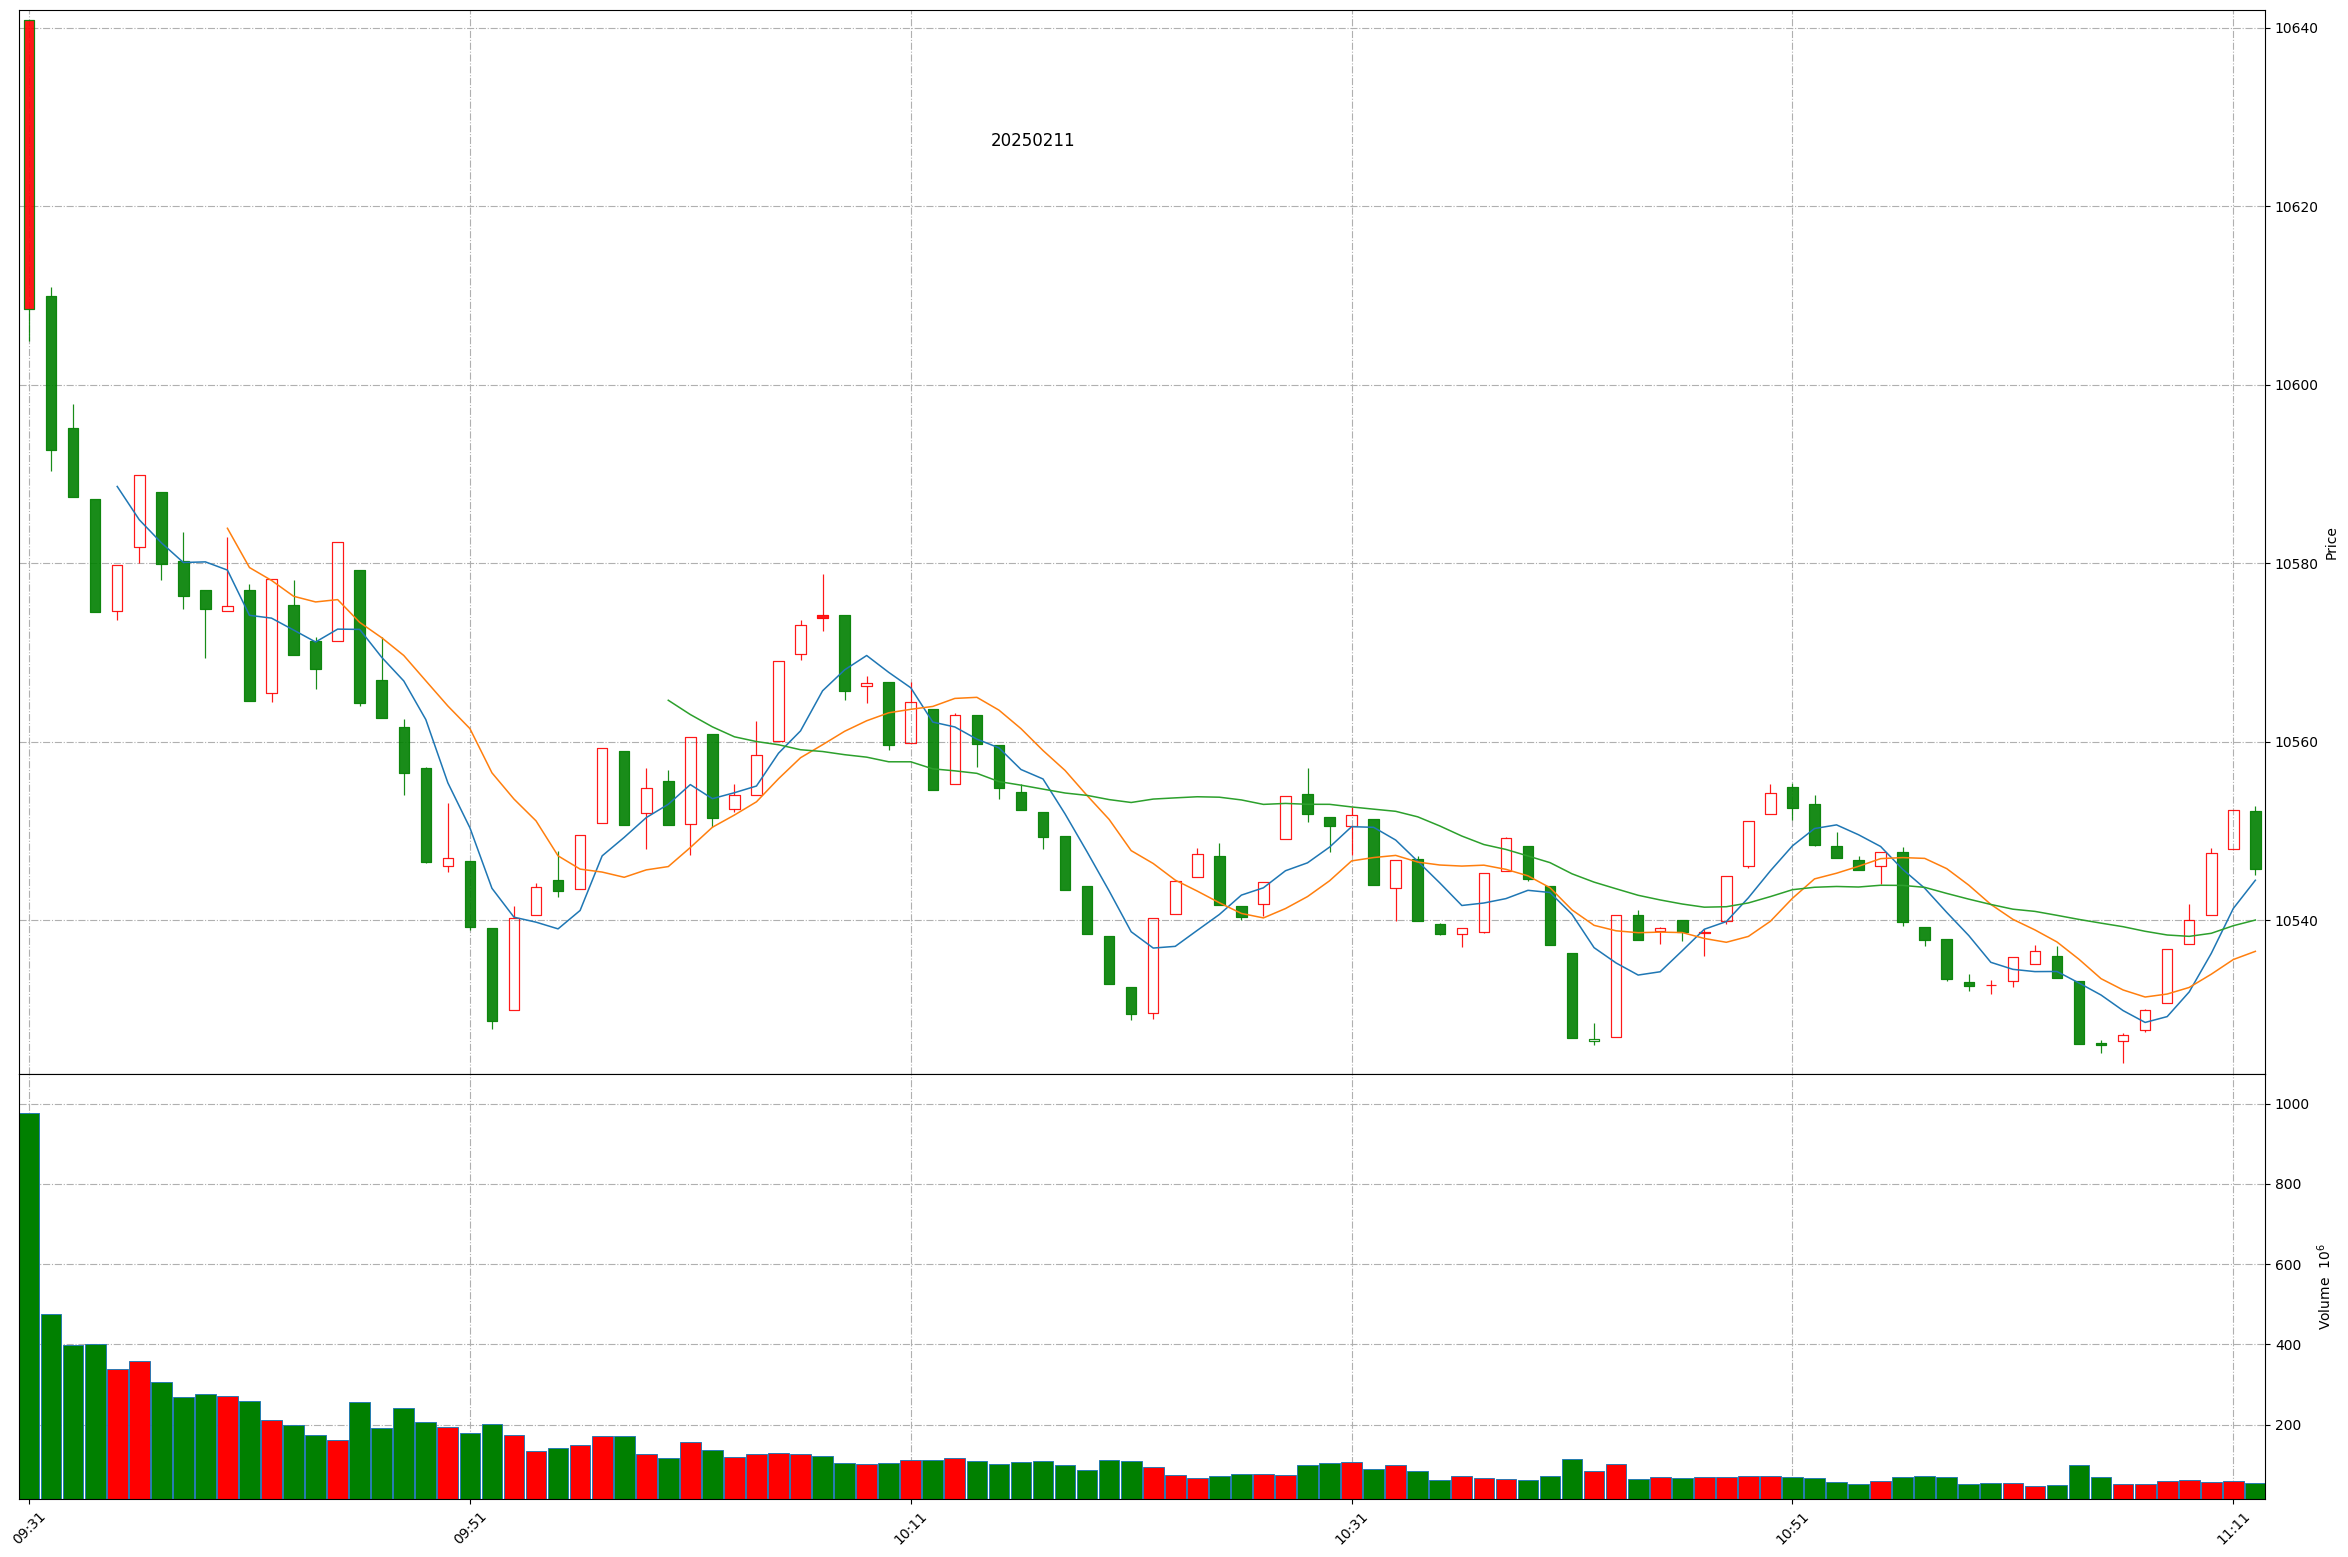
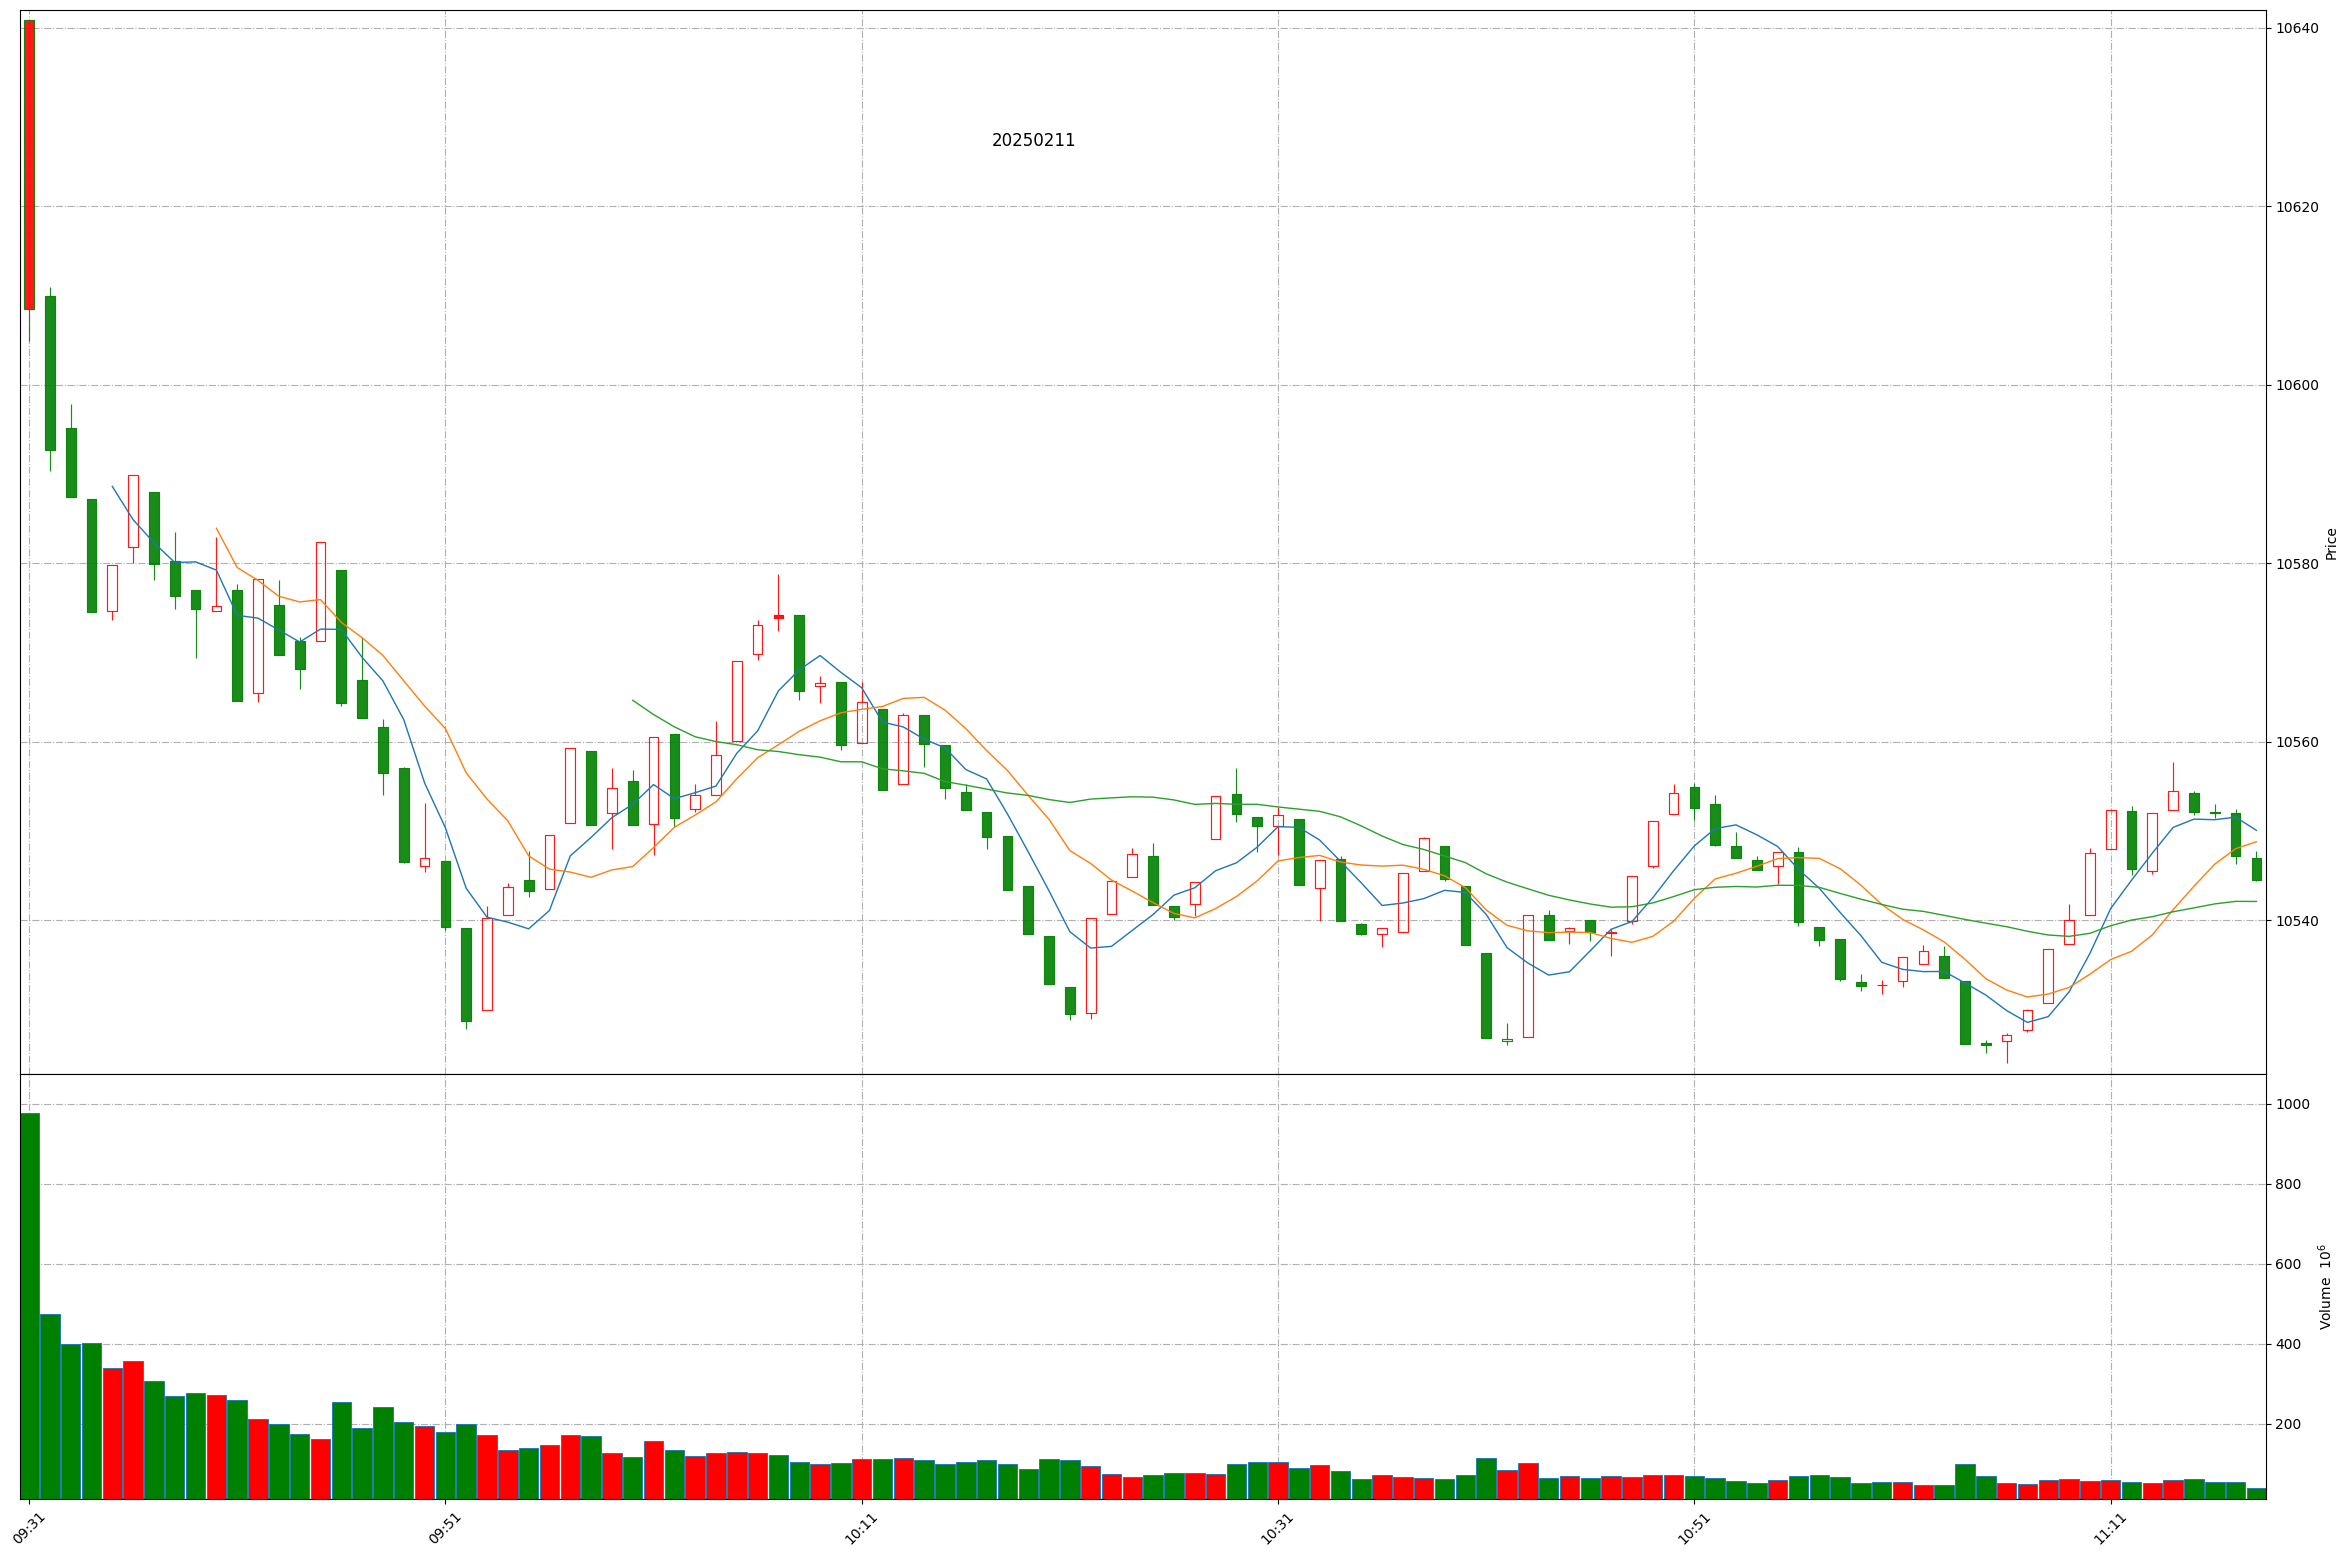
Github action update at 2025-02-11 11:17:54.

diff --git a/README.md b/README.md
@@ -1,11 +1,11 @@
 
 # Daily-A-share-market-quotes 每日 A 股指数（5min 更新）- 20250211
 
-### 上证指数 20250211 11:12
+### 上证指数 20250211 11:17
 ![](./fig/2025/2/20250211-sh000001.png)
 
-### 深证成指 20250211 11:12
+### 深证成指 20250211 11:17
 ![](./fig/2025/2/20250211-sz399001.png)
 
-### 北证50 20250211 11:12
+### 北证50 20250211 11:17
 ![](./fig/2025/2/20250211-bj899050.png)
